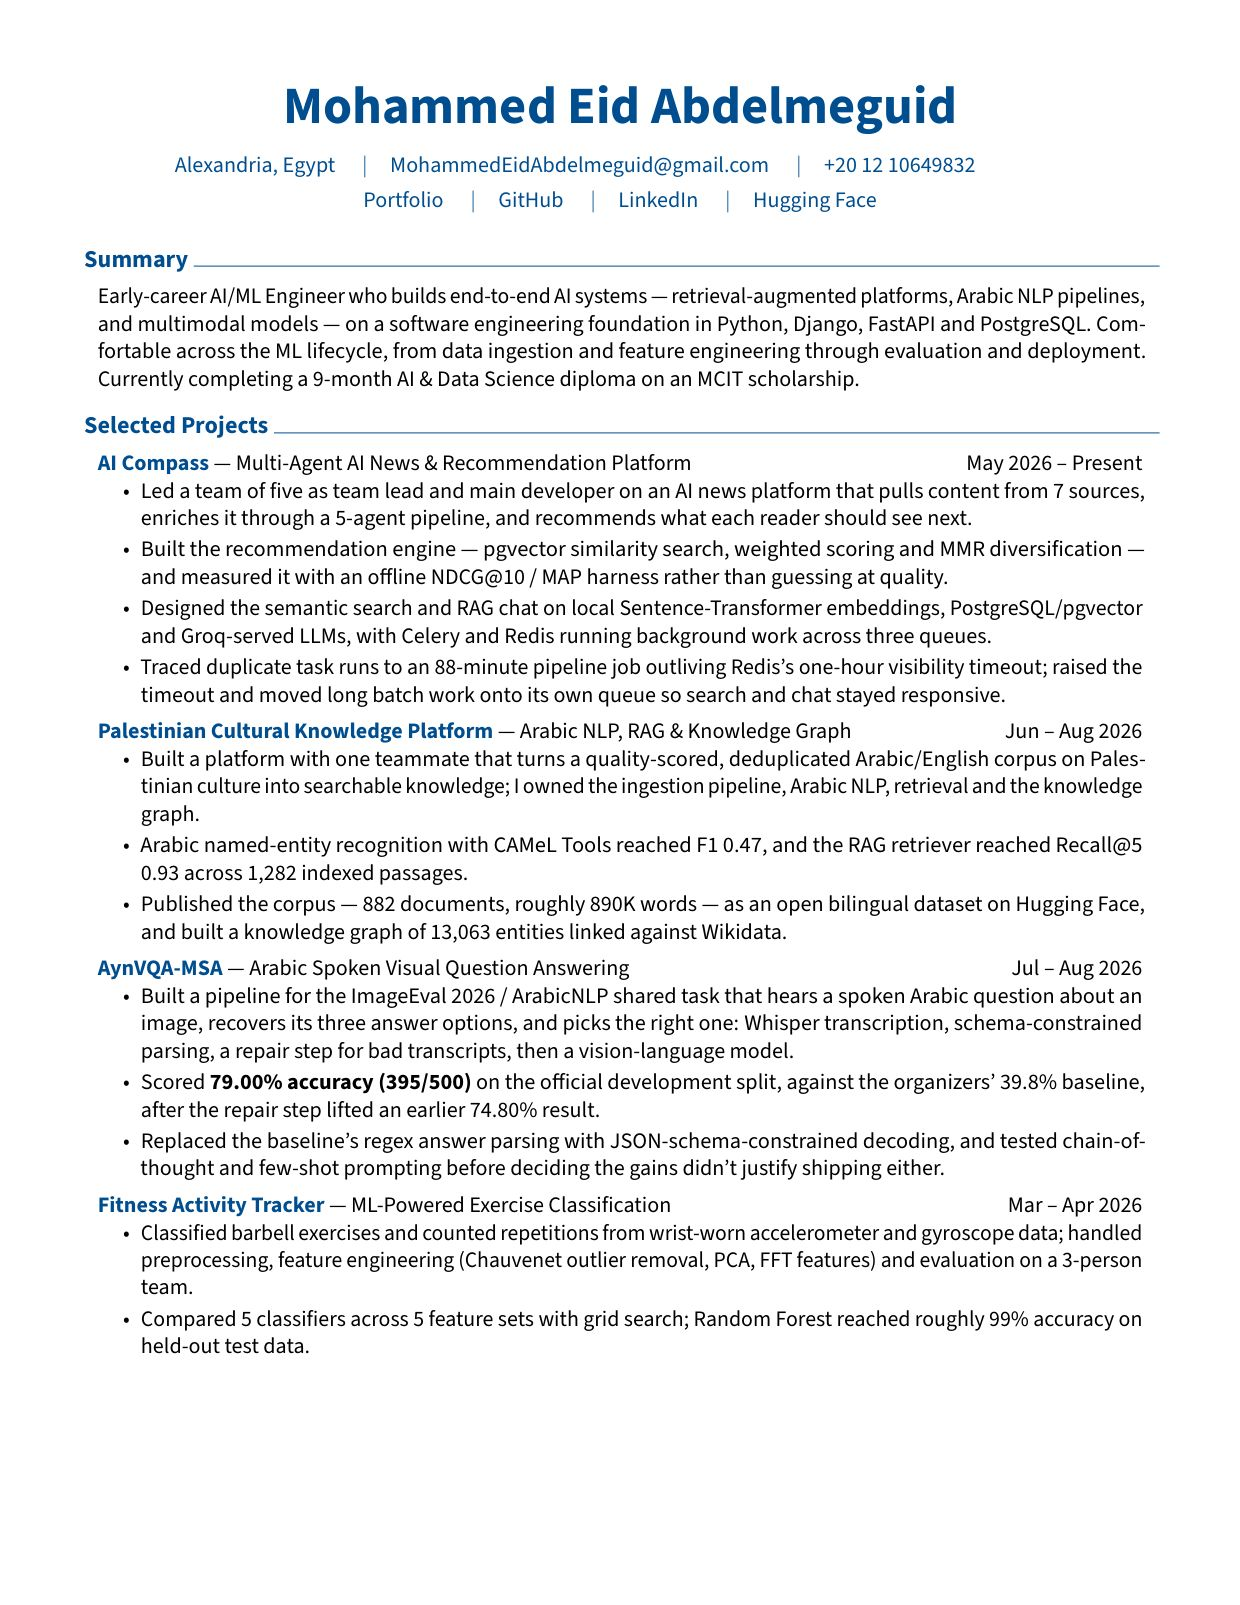
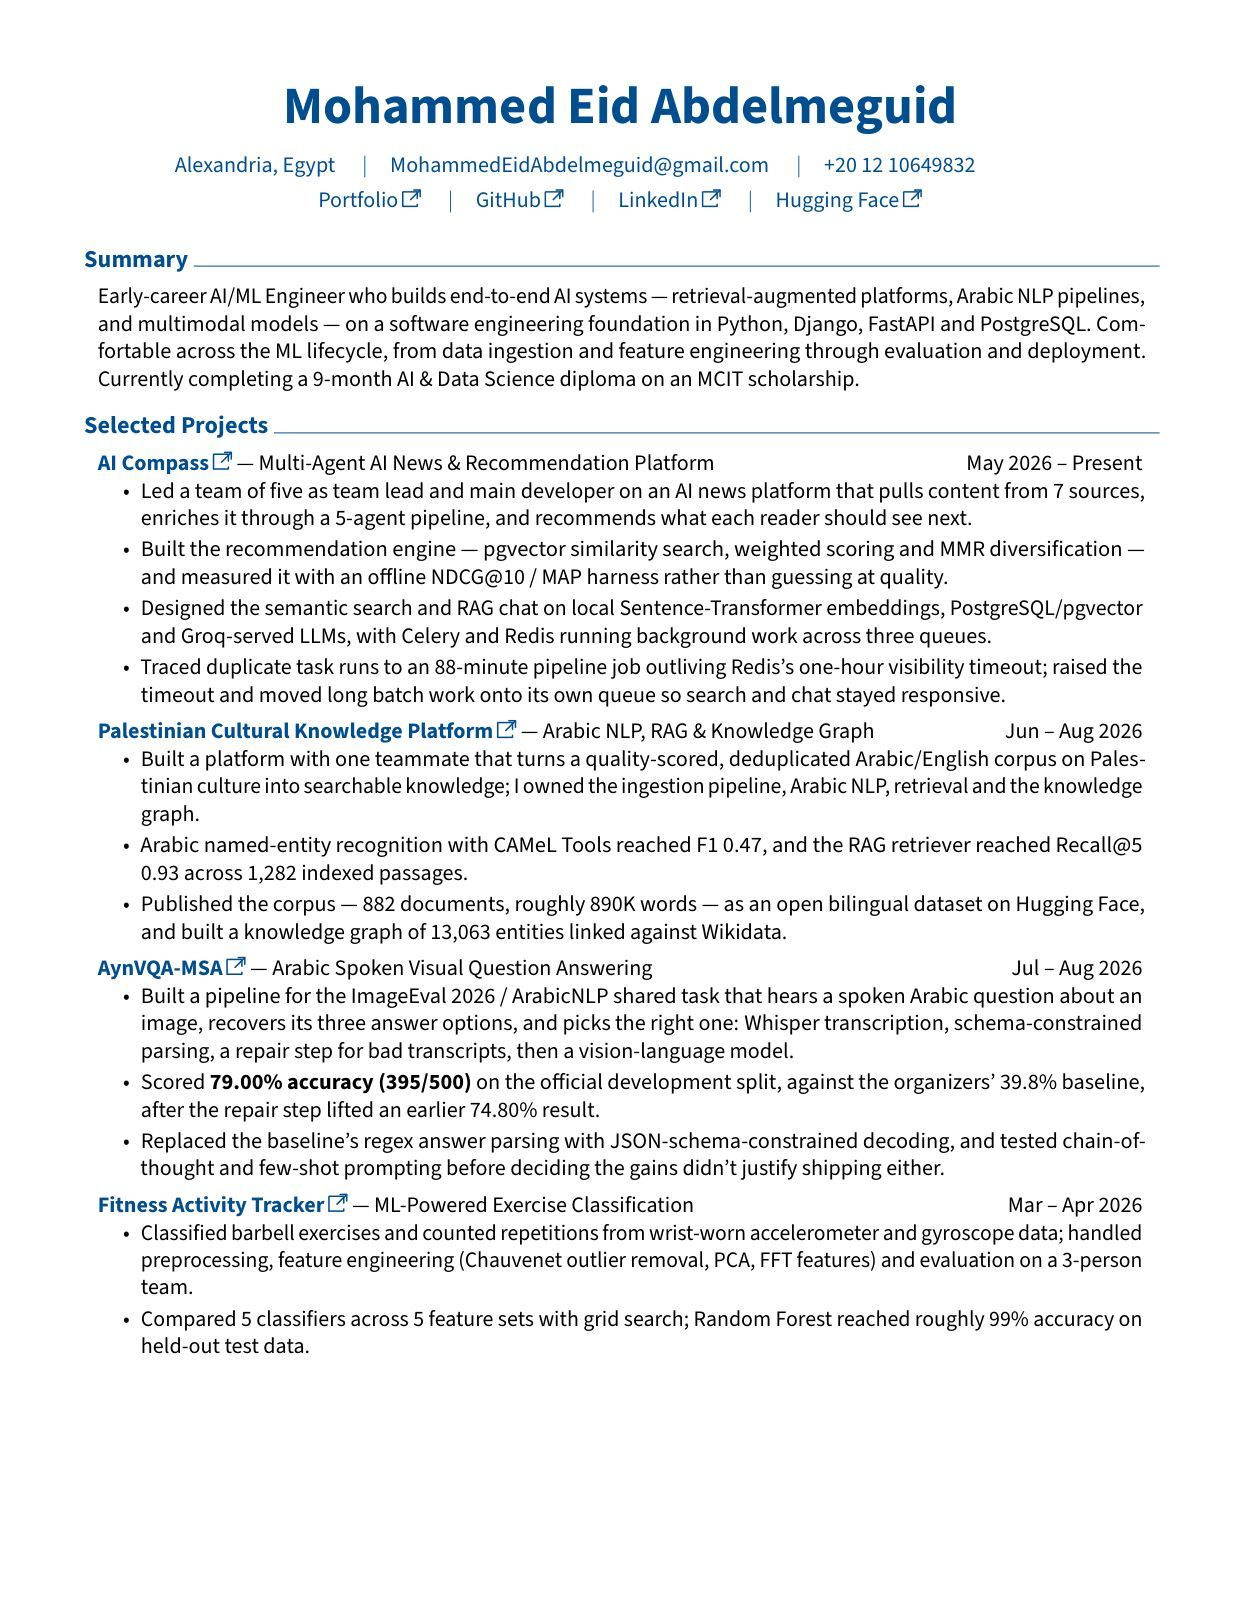
feat: update build info timestamp, enhance CV layout, and improve skills section accessibility

diff --git a/src/components/sections/skills.tsx b/src/components/sections/skills.tsx
@@ -10,24 +10,22 @@ import {
   tierDescription,
   type SkillTier,
 } from "@/lib/data/skills";
-import {
-  Tooltip,
-  TooltipContent,
-  TooltipTrigger,
-} from "@/components/ui/tooltip";
 import { cn } from "@/lib/utils";
 
+/**
+ * The three tiers are distinguished by fill *and* border style, not hue alone —
+ * so the difference survives a colour-blind reader, a dim screen, or a grayscale
+ * print. Core is solid and filled, Proficient is a plain outline, Familiar is
+ * dashed and unfilled.
+ */
 const TIER_STYLES: Record<SkillTier, string> = {
-  core: "bg-brand-violet/15 text-brand-violet border-brand-violet/30",
-  proficient: "bg-brand-pink/10 text-brand-pink border-brand-pink/25",
-  familiar: "bg-white/5 text-muted-foreground border-white/10",
+  core: "bg-brand-violet/25 text-white border-solid border-brand-violet/70 font-semibold",
+  proficient: "bg-brand-pink/10 text-brand-pink border-solid border-brand-pink/45",
+  familiar:
+    "bg-transparent text-muted-foreground border-dashed border-white/25",
 };
 
-const TIER_DOTS: Record<SkillTier, number> = {
-  core: 3,
-  proficient: 2,
-  familiar: 1,
-};
+const TIER_ORDER: SkillTier[] = ["core", "proficient", "familiar"];
 
 export function Skills() {
   return (
@@ -39,27 +37,29 @@ export function Skills() {
           description="Grouped by area, with an honest signal of depth — how much real, shipped work backs each one, not a made-up percentage."
         />
 
-        <div className="mt-12 flex flex-wrap items-center gap-4 text-xs text-muted-foreground">
-          {(Object.keys(tierLabel) as SkillTier[]).map((tier) => (
-            <Tooltip key={tier}>
-              <TooltipTrigger className="flex items-center gap-1.5 cursor-help">
-                <span className="flex gap-0.5">
-                  {Array.from({ length: 3 }).map((_, i) => (
-                    <span
-                      key={i}
-                      className={cn(
-                        "size-1.5 rounded-full",
-                        i < TIER_DOTS[tier] ? "bg-brand-pink" : "bg-white/15"
-                      )}
-                    />
-                  ))}
-                </span>
-                {tierLabel[tier]}
-              </TooltipTrigger>
-              <TooltipContent>{tierDescription[tier]}</TooltipContent>
-            </Tooltip>
-          ))}
-        </div>
+        {/* Legend samples are rendered with the identical pill styles used below,
+            so the mapping between a tag's appearance and its meaning is direct. */}
+        <Reveal delay={0.2}>
+          <dl className="mt-10 grid gap-3 sm:grid-cols-3 rounded-2xl border border-white/10 bg-white/[0.02] p-5">
+            {TIER_ORDER.map((tier) => (
+              <div key={tier} className="flex flex-col gap-2">
+                <dt>
+                  <span
+                    className={cn(
+                      "inline-block rounded-full border px-3 py-1 text-sm",
+                      TIER_STYLES[tier]
+                    )}
+                  >
+                    {tierLabel[tier]}
+                  </span>
+                </dt>
+                <dd className="text-sm text-muted-foreground leading-relaxed">
+                  {tierDescription[tier]}
+                </dd>
+              </div>
+            ))}
+          </dl>
+        </Reveal>
 
         <div className="mt-8 grid sm:grid-cols-2 lg:grid-cols-3 gap-5">
           {skillCategories.map((category, idx) => {
@@ -81,7 +81,7 @@ export function Skills() {
                         key={skill.name}
                         variants={revealItem}
                         className={cn(
-                          "rounded-full border px-2.5 py-1 text-xs font-medium",
+                          "rounded-full border px-3 py-1 text-sm font-medium",
                           TIER_STYLES[skill.tier]
                         )}
                       >

diff --git a/src/components/layout/particle-background.tsx b/src/components/layout/particle-background.tsx
@@ -133,11 +133,13 @@ export function ParticleBackground() {
 
   return (
     <div className="fixed inset-0 -z-10 overflow-hidden bg-background">
-      <canvas ref={canvasRef} className="absolute inset-0 opacity-70" aria-hidden />
-      <div className="absolute -top-40 -left-40 h-[32rem] w-[32rem] rounded-full bg-brand-violet/20 blur-[120px] animate-float-slow" />
-      <div className="absolute top-1/3 -right-40 h-[28rem] w-[28rem] rounded-full bg-brand-pink/15 blur-[120px] animate-float" />
-      <div className="absolute bottom-0 left-1/4 h-[24rem] w-[24rem] rounded-full bg-brand-orange/10 blur-[120px] animate-float-slow" />
-      <div className="absolute inset-0 bg-grid opacity-[0.15] [mask-image:radial-gradient(ellipse_at_center,black_10%,transparent_75%)]" />
+      {/* Dimmed from 70%: the constellation sat close enough to the text layer to
+          eat into the effective contrast of secondary copy. */}
+      <canvas ref={canvasRef} className="absolute inset-0 opacity-40" aria-hidden />
+      <div className="absolute -top-40 -left-40 h-[32rem] w-[32rem] rounded-full bg-brand-violet/12 blur-[130px] animate-float-slow" />
+      <div className="absolute top-1/3 -right-40 h-[28rem] w-[28rem] rounded-full bg-brand-pink/10 blur-[130px] animate-float" />
+      <div className="absolute bottom-0 left-1/4 h-[24rem] w-[24rem] rounded-full bg-brand-orange/8 blur-[130px] animate-float-slow" />
+      <div className="absolute inset-0 bg-grid opacity-[0.08] [mask-image:radial-gradient(ellipse_at_center,black_10%,transparent_75%)]" />
     </div>
   );
 }

diff --git a/src/app/globals.css b/src/app/globals.css
@@ -50,6 +50,18 @@
   --radius-3xl: calc(var(--radius) * 2.2);
   --radius-4xl: calc(var(--radius) * 2.6);
   --font-heading: var(--font-sans);
+
+  /*
+   * Type scale nudged up one notch at the small end. Light text on a dark
+   * background reads thinner than the same text dark-on-light (irradiation), so
+   * 12px secondary copy that is fine on a white page becomes hard work here.
+   * Raising the floor fixes every `text-xs`/`text-sm` in one place.
+   */
+  --text-xs: 0.8125rem; /* 13px, was 12px */
+  --text-xs--line-height: 1.5;
+  --text-sm: 0.9375rem; /* 15px, was 14px */
+  --text-sm--line-height: 1.6;
+  --text-base--line-height: 1.65;
 }
 
 :root,
@@ -65,7 +77,9 @@
   --secondary: oklch(0.21 0.02 280);
   --secondary-foreground: oklch(0.97 0.004 280);
   --muted: oklch(0.2 0.018 280);
-  --muted-foreground: oklch(0.66 0.02 280);
+  /* Lifted from 0.66 → 0.78: ~6.6:1 to ~10.3:1 against the page background.
+     WCAG's 4.5:1 floor assumes ~16px text; secondary copy here is smaller. */
+  --muted-foreground: oklch(0.78 0.02 280);
   --accent: oklch(0.25 0.035 300);
   --accent-foreground: oklch(0.97 0.004 280);
   --destructive: oklch(0.65 0.2 25);

diff --git a/cv/main.tex b/cv/main.tex
@@ -26,6 +26,7 @@
 \definecolor{primaryColor}{RGB}{0, 79, 144}
 \usepackage{enumitem}
 \usepackage{amsmath}
+\usepackage{tikz}              % draws the external-link icon as a vector
 \usepackage{etoolbox}          % required by \AtBeginEnvironment below
 \usepackage{microtype}         % character protrusion + font expansion
 \usepackage[
@@ -111,10 +112,35 @@
     \setlength{\topsep}{0pt}\par\kern\topsep\centering\color{primaryColor}\linespread{1.3}
 }{\par\kern\topsep}
 
-% NOTE: links are plain coloured text, with no trailing icon.
-% The previous \href redefinition appended \faExternalLink*, whose glyph extracts
-% from the PDF text layer as the character "2" — so an ATS parser read titles as
-% "Palestinian Cultural Knowledge Platform 2". Colour alone signals the link.
+%------------------------------------------------------------------------------
+% External-link indicator.
+%
+% Drawn as a TikZ vector, NOT as a font glyph. The obvious approach —
+% \faExternalLink* from fontawesome5 — renders correctly but its glyph has no
+% usable ToUnicode mapping, so it extracts from the PDF text layer as the
+% character "2". An ATS then reads "Palestinian Cultural Knowledge Platform 2"
+% and "IBM AI Engineering Professional Certificate 2". A vector path contributes
+% nothing to the text layer, so the icon is visible to humans and invisible to
+% parsers. Sized in ex units so it scales with whatever text it follows.
+%------------------------------------------------------------------------------
+\newcommand{\linkicon}{%
+    \raisebox{0.02ex}{% sit optically on the baseline
+        \begin{tikzpicture}[x=1ex, y=1ex, line width=0.14ex,
+                            line cap=round, line join=round]
+            % open-cornered box
+            \draw[primaryColor] (0,0) -- (0,1.35) -- (1.35,1.35) -- (1.35,0.72);
+            \draw[primaryColor] (0,0) -- (1.35,0) -- (1.35,0.2);
+            % arrow escaping the top-right corner
+            \draw[primaryColor] (0.72,0.62) -- (1.62,1.52);
+            \draw[primaryColor] (1.0,1.52) -- (1.62,1.52) -- (1.62,0.9);
+        \end{tikzpicture}%
+    }%
+}
+
+% Every web link gets the icon; \hrefWithoutArrow stays available for mailto:
+% and tel:, where an "external link" marker would be noise.
+\let\hrefWithoutArrow\href
+\renewcommand{\href}[2]{\hrefWithoutArrow{#1}{#2\,\linkicon}}
 
 \begin{document}
 
@@ -127,9 +153,9 @@
     \normalsize
     Alexandria, Egypt
     \quad$|$\quad
-    \href{mailto:MohammedEidAbdelmeguid@gmail.com}{MohammedEidAbdelmeguid@gmail.com}
+    \hrefWithoutArrow{mailto:MohammedEidAbdelmeguid@gmail.com}{MohammedEidAbdelmeguid@gmail.com}
     \quad$|$\quad
-    \href{tel:+20-12-10649832}{+20 12 10649832}
+    \hrefWithoutArrow{tel:+20-12-10649832}{+20 12 10649832}
     \newline
     \href{https://mohammed-eid-portfolio.vercel.app}{Portfolio}
     \quad$|$\quad
@@ -280,6 +306,7 @@ Early-career AI/ML Engineer who builds end-to-end AI systems --- retrieval-augme
     \item \textbf{Microsoft Data Engineer (159 hours)} --- Digital Egypt Pioneers Initiative (DEPI) \hfill Apr -- Oct 2024
 
     \item Preparing for \textbf{AWS Certified Machine Learning Engineer -- Associate (MLA-C01)}
+    \item Preparing for \textbf{Huawei HCIA-AI}
 \end{highlights}
 
 \end{document}
